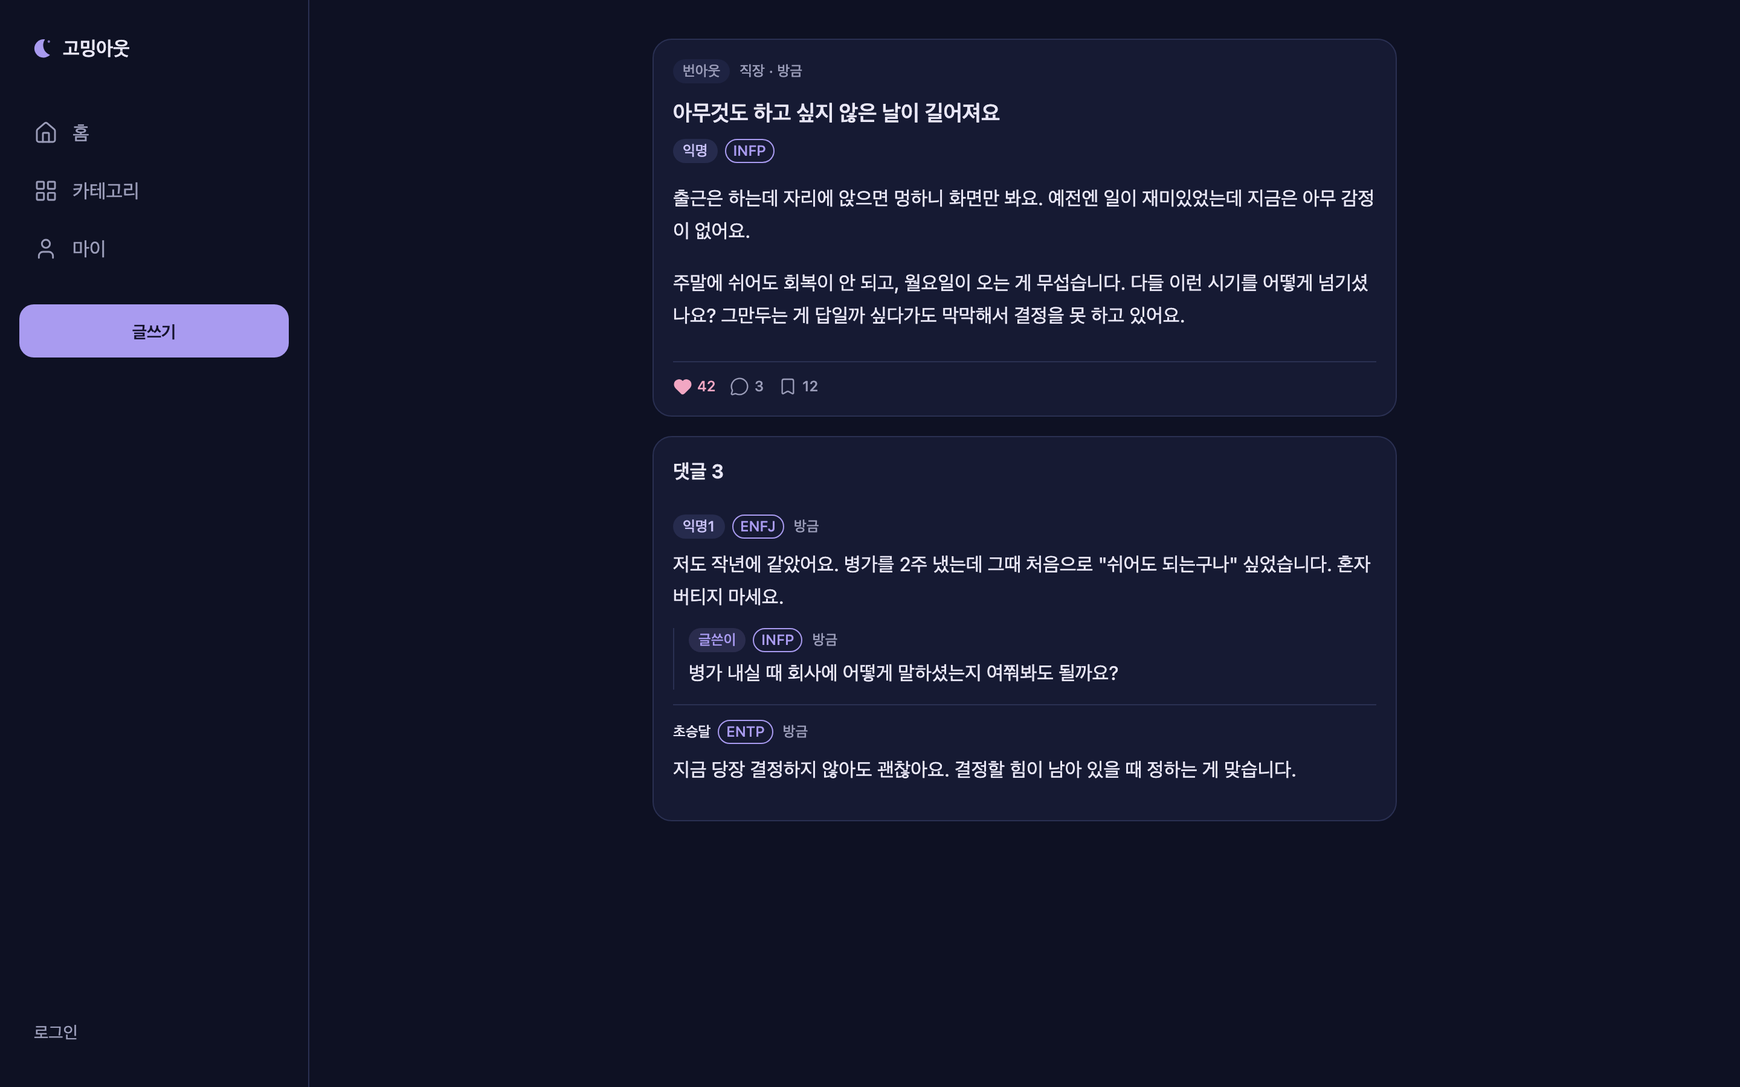
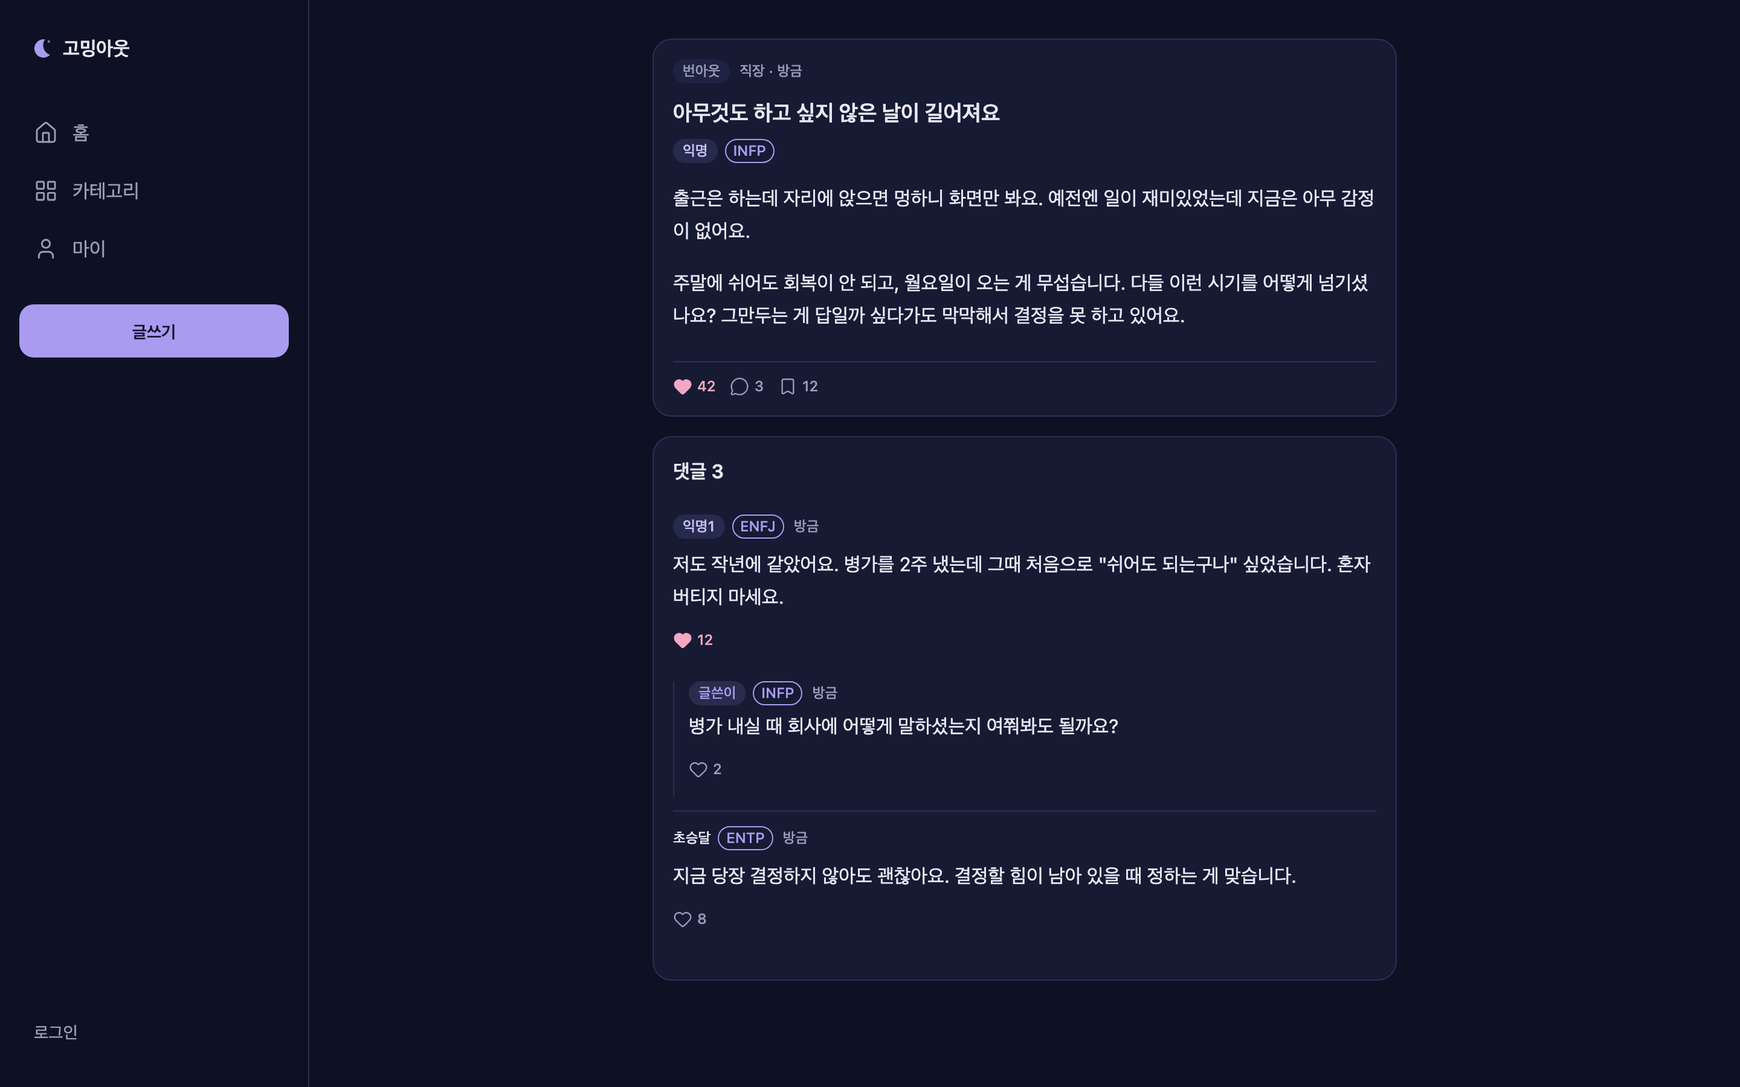
feat(schema): 댓글 공감 모델 추가, 글쓴이 라벨 규칙 확정
D22 — `글쓴이` 라벨은 글·댓글의 익명 여부와 무관하게 항상 표시한다.
대화 맥락에서 글쓴이의 답글임을 아는 편이 더 중요하다는 판단.
닉네임 글에 익명 댓글을 달면 작성자가 드러나지만 의도된 동작이며,
이 경우에도 nickname·id는 응답에 담기지 않는다. 라벨만 바뀐다.
M3에서 댓글 작성 화면에 이 점을 안내한다.

D23 — 댓글 공감을 위한 CommentLike 모델을 정의한다.
D18에서 댓글 공감이 확정됐는데 Comment.likeCount를 유지할 수단이 없었다.

SCHEMA.md
- CommentLike 모델 (복합 PK로 중복 공감 차단, @@index([commentId]))
- User.commentLikes / Comment.likes 관계
- Comment.editedAt, @@index([parentId])
- AgeRange에 TEEN_MID(14~16) — 가입 하한 D6을 담는 구간
- EmailVerification.purpose를 VerificationPurpose enum으로

API.md
- POST/DELETE /comments/:id/like
- `글쓴이` 라벨 규칙 표와 익명성 주의사항

PRD.md — 반응 항목에 댓글 공감, 4장에 글쓴이 라벨 규칙

코드
- shared에 AUTHOR_LABEL 상수와 anonymousNumberLabel/isPostAuthorLabel
  (serializer와 화면이 같은 문자열을 쓰도록 단일화)
- AuthorLabel이 문자열 직접 비교 대신 상수를 쓴다
- 상세 화면에 댓글 공감 버튼

테스트 27개 통과 (D22 케이스, 라벨 상수 3종 추가).

Changed region(s): [[0.375, 0.56, 0.75, 0.7156], [0.375, 0.7467, 0.7188, 0.8089]]

diff --git a/apps/web/src/components/post/author-label.tsx b/apps/web/src/components/post/author-label.tsx
@@ -1,4 +1,4 @@
-import type { PublicAuthor } from '@gomingout/shared';
+import { AUTHOR_LABEL, isPostAuthorLabel, type PublicAuthor } from '@gomingout/shared';
 import { MbtiBadge } from './mbti-badge';
 
 /**
@@ -9,20 +9,24 @@ import { MbtiBadge } from './mbti-badge';
  * - 익명 글·댓글에 표시할 수 있는 프로필 정보는 MBTI 스냅샷뿐이다.
  * - 닉네임 작성자의 MBTI는 mbtiPublic=true일 때만 서버가 채워 보낸다(절대규칙 4).
  * - 탈퇴한 사용자는 닉네임을 노출하지 않고 "탈퇴한 사용자"로만 표시한다(D18).
+ *
+ * `글쓴이` 라벨은 글·댓글의 익명 여부와 무관하게 붙는다(D22).
+ * 닉네임 글에 익명 댓글을 달면 작성자가 드러나지만 의도된 동작이며,
+ * 이 경우에도 응답에 nickname·id는 담기지 않는다 — 라벨만 바뀐다.
  */
 export function AuthorLabel({ author }: { author: PublicAuthor }) {
   if (author.type === 'deleted') {
-    return <span className="text-caption text-text-subtle">탈퇴한 사용자</span>;
+    return <span className="text-caption text-text-subtle">{AUTHOR_LABEL.deleted}</span>;
   }
 
   if (author.type === 'anonymous') {
     // 글쓴이 배지는 강조색, 일반 익명 배지는 익명 전용 색 (DESIGN.md 7장)
-    const isPostAuthor = author.label === '글쓴이';
+    const isAuthor = isPostAuthorLabel(author.label);
     return (
       <span className="flex items-center gap-1.5">
         <span
           className={
-            isPostAuthor
+            isAuthor
               ? 'rounded-pill bg-primary-soft px-2 py-0.5 text-caption text-primary'
               : 'rounded-pill bg-anon-bg px-2 py-0.5 text-caption text-anon-text'
           }

diff --git a/apps/web/src/app/posts/[id]/page.tsx b/apps/web/src/app/posts/[id]/page.tsx
@@ -3,6 +3,7 @@ import { CareBox } from '@/components/common/care-box';
 import { Card } from '@/components/common/card';
 import { AuthorLabel } from '@/components/post/author-label';
 import { CategoryChip } from '@/components/post/category-chip';
+import { CommentLikeButton } from '@/components/post/comment-like-button';
 import { CountRow } from '@/components/post/count-row';
 import { formatRelativeKst } from '@/lib/format-time';
 import { MOCK_COMMENTS, MOCK_POSTS } from '@/lib/mock/fixtures';
@@ -72,6 +73,10 @@ export default async function PostDetailPage({ params }: { params: Promise<{ id:
                   </span>
                 </div>
                 <p className="mt-2 text-body text-text">{comment.content}</p>
+                <CommentLikeButton
+                  likeCount={comment.likeCount}
+                  liked={comment.viewer?.liked ?? false}
+                />
 
                 {/* 대댓글은 1단계까지 (D18) */}
                 {replies.length > 0 && (
@@ -85,6 +90,10 @@ export default async function PostDetailPage({ params }: { params: Promise<{ id:
                           </span>
                         </div>
                         <p className="mt-1 text-body text-text">{reply.content}</p>
+                        <CommentLikeButton
+                          likeCount={reply.likeCount}
+                          liked={reply.viewer?.liked ?? false}
+                        />
                       </li>
                     ))}
                   </ul>

diff --git a/packages/shared/src/constants/author-label.ts b/packages/shared/src/constants/author-label.ts
@@ -1,0 +1,28 @@
+/**
+ * 작성자 라벨 (PRD 4장, D22).
+ *
+ * 왜 상수인가:
+ * 서버의 serializer(toPublicComment)가 만드는 문자열과 화면이 분기하는 문자열이
+ * 반드시 같아야 한다. 한쪽만 바뀌면 "글쓴이" 배지가 조용히 일반 익명 배지로 보인다.
+ */
+export const AUTHOR_LABEL = {
+  /** 게시글의 익명 작성자, 또는 번호가 필요 없는 익명 */
+  anonymous: '익명',
+  /** 게시글 작성자가 단 댓글. 글·댓글의 익명 여부와 무관하게 붙인다 (D22) */
+  postAuthor: '글쓴이',
+  /** 탈퇴한 사용자 (D18) */
+  deleted: '탈퇴한 사용자',
+} as const;
+
+/**
+ * 한 게시글 안에서만 유효한 익명 번호 라벨.
+ * 번호는 AnonymousAlias가 게시글 단위로 고정한다. 다른 글에서는 같은 사람이 다른 번호를 받는다.
+ */
+export function anonymousNumberLabel(sequence: number): string {
+  return `${AUTHOR_LABEL.anonymous}${String(sequence)}`;
+}
+
+/** 글쓴이 여부 판별. 라벨 문자열을 직접 비교하지 않기 위해 둔다. */
+export function isPostAuthorLabel(label: string): boolean {
+  return label === AUTHOR_LABEL.postAuthor;
+}

diff --git a/apps/web/src/components/post/author-label.test.tsx b/apps/web/src/components/post/author-label.test.tsx
@@ -1,4 +1,4 @@
-import type { PublicAuthor } from '@gomingout/shared';
+import { AUTHOR_LABEL, type PublicAuthor } from '@gomingout/shared';
 import { render, screen } from '@testing-library/react';
 import { describe, expect, it } from 'vitest';
 import { AuthorLabel } from './author-label';
@@ -30,6 +30,15 @@ describe('AuthorLabel — 익명 표시', () => {
     render(<AuthorLabel author={author} />);
 
     expect(screen.getByText('글쓴이')).toBeInTheDocument();
+  });
+
+  it('닉네임 글에 단 글쓴이의 익명 댓글도 "글쓴이"로 표시된다 (D22)', () => {
+    // 글이 닉네임이어도 라벨만 글쓴이로 바뀔 뿐 nickname·id는 응답에 없다
+    const author: PublicAuthor = { type: 'anonymous', label: AUTHOR_LABEL.postAuthor, mbti: null };
+    const { container } = render(<AuthorLabel author={author} />);
+
+    expect(container.textContent).toBe('글쓴이');
+    expect(author).not.toHaveProperty('nickname');
   });
 
   it('탈퇴한 사용자는 닉네임을 노출하지 않는다', () => {

diff --git a/packages/shared/src/constants/author-label.test.ts b/packages/shared/src/constants/author-label.test.ts
@@ -1,0 +1,21 @@
+import { describe, expect, it } from 'vitest';
+import { AUTHOR_LABEL, anonymousNumberLabel, isPostAuthorLabel } from './author-label.js';
+
+describe('작성자 라벨', () => {
+  it('익명 번호 라벨을 만든다', () => {
+    expect(anonymousNumberLabel(1)).toBe('익명1');
+    expect(anonymousNumberLabel(12)).toBe('익명12');
+  });
+
+  it('글쓴이 라벨을 판별한다', () => {
+    expect(isPostAuthorLabel(AUTHOR_LABEL.postAuthor)).toBe(true);
+    expect(isPostAuthorLabel('익명1')).toBe(false);
+    expect(isPostAuthorLabel(AUTHOR_LABEL.anonymous)).toBe(false);
+  });
+
+  it('익명 번호 라벨은 글쓴이로 오인되지 않는다', () => {
+    for (let index = 1; index <= 20; index += 1) {
+      expect(isPostAuthorLabel(anonymousNumberLabel(index))).toBe(false);
+    }
+  });
+});

diff --git a/apps/web/src/components/post/comment-like-button.tsx b/apps/web/src/components/post/comment-like-button.tsx
@@ -1,0 +1,22 @@
+import { Heart } from 'lucide-react';
+
+/**
+ * 댓글 공감 (D18, D23).
+ * 활성 시 --like로 채운다. 게시글 공감과 같은 규칙이다 (DESIGN.md 7장).
+ * 실제 토글은 M4에서 붙인다.
+ */
+export function CommentLikeButton({ likeCount, liked }: { likeCount: number; liked: boolean }) {
+  return (
+    <button
+      type="button"
+      aria-label={liked ? '공감 취소' : '공감'}
+      aria-pressed={liked}
+      className={`flex min-h-11 items-center gap-1 text-caption transition-colors duration-150 ${
+        liked ? 'text-like' : 'text-text-muted hover:text-text'
+      }`}
+    >
+      <Heart size={16} strokeWidth={1.75} fill={liked ? 'currentColor' : 'none'} aria-hidden />
+      {likeCount}
+    </button>
+  );
+}

diff --git a/packages/shared/src/index.ts b/packages/shared/src/index.ts
@@ -12,6 +12,7 @@ export * from './constants/crisis-keywords.js';
 export * from './constants/profile-enums.js';
 export * from './constants/limits.js';
 export * from './constants/brand.js';
+export * from './constants/author-label.js';
 
 // 타입
 export * from './types/api.js';

diff --git a/docs/progress/M0.md b/docs/progress/M0.md
@@ -51,13 +51,13 @@ shadcn 변수에 연결하고 Pretendard를 self-host했다.
 ## 테스트
 
 - 실행 명령: `pnpm verify` (format:check → lint → typecheck → test)
-- 결과: **23개 전부 통과**, lint 0 error, 타입 에러 0
+- 결과: **27개 전부 통과**, lint 0 error, 타입 에러 0
 
 | 패키지 | 개수 | 주요 항목 |
 |---|---|---|
-| shared | 11 | MBTI 16종·중복 없음, 카테고리 slug 전역 유일, 위기 키워드 오탐/감지/공백 우회 |
+| shared | 14 | MBTI 16종·중복 없음, 카테고리 slug 전역 유일, 위기 키워드 오탐/감지/공백 우회, 작성자 라벨 |
 | api | 4 | health 응답 형식·UTC, **`Cache-Control: private, no-store`**, `x-powered-by` 미노출, 404 에러 형식 |
-| web | 8 | AppShell 렌더, **AuthorLabel 익명성 6종** |
+| web | 9 | AppShell 렌더, **AuthorLabel 익명성 7종**(D22 케이스 포함) |
 
 익명성 검사(절대규칙 7): 익명 작성자에 라벨·MBTI 외 노출 없음, MBTI 끈 경우 라벨만,
 `mbtiPublic=false` 닉네임에 배지 없음, 탈퇴 사용자 닉네임 미노출,
@@ -99,18 +99,24 @@ curl -D - localhost:3000/api/health | grep cache-control → private, no-store
   지금 정의만 되어 있고 모델이 없어 생성되지 않는다
 - 카테고리 시드 투입
 
-### 스키마 문서와 어긋난 채 남아 있는 것 (해당 모델 만들 때 함께 수정)
-- `SCHEMA.md`에 **`CommentLike` 모델이 없다**. D18에서 댓글 공감이 확정됐는데
-  `Comment.likeCount`를 유지할 수단이 없다. `API.md`에도 `POST/DELETE /comments/:id/like`가 없다 → M3·M4
-- 탈퇴 시 `User.nickname`(non-null `@unique`) 처리 방식 미정 → M6
-- `AgeRange`에 `TEEN_MID`(14~16세)를 shared에는 추가했지만 `SCHEMA.md`는 아직 `TEEN_LATE`부터다 → M1
-- `EmailVerification.purpose`가 `String`(다른 곳은 enum) → M1
-- `Comment`에 `editedAt`이 없다 → M3
+### 보고 이후 해소한 것 (같은 마일스톤에서 처리)
 
-### ⚠ M3 전에 반드시 정할 것
-글쓴이가 **닉네임으로 글을 쓰고 익명으로 댓글**을 달 때 `글쓴이` 배지를 붙이면 그 익명 댓글의 신원이
-글 작성자로 특정된다. 역방향도 같다. 절대규칙 1과 직접 충돌한다.
-제안: **글과 댓글의 익명 여부가 같을 때만 `글쓴이` 배지를 표시한다.**
+사용자 결정에 따라 M0 안에서 문서·코드를 함께 정리했다.
+
+- **D22 `글쓴이` 라벨 확정** — 글·댓글의 익명 여부와 무관하게 항상 `글쓴이`로 표시한다.
+  닉네임 글 + 익명 댓글이면 작성자가 드러나지만 의도된 동작이며, 이 경우에도 `nickname`·`id`는
+  응답에 담기지 않는다. 라벨 문자열은 `AUTHOR_LABEL` 상수로 단일화해 serializer(M3)와 화면이
+  어긋나지 않게 했다. PRD 4장·API.md·ARCHITECTURE.md 반영.
+- **D23 `CommentLike` 모델 추가** — `SCHEMA.md`에 `CommentLike`(복합 PK로 중복 공감 차단),
+  `User.commentLikes`·`Comment.likes` 관계를 넣고 `API.md`에 `POST/DELETE /comments/:id/like`를 정의했다.
+  상세 화면에도 댓글 공감 버튼을 붙였다.
+- `Comment.editedAt` 추가, `@([parentId])` 추가
+- `AgeRange`에 `TEEN_MID`(14~16세) 추가 — 가입 하한(D6)을 담는 구간
+- `EmailVerification.purpose`를 `VerificationPurpose` enum으로 변경
+- PRD 3장 반응 항목에 댓글 공감 반영
+
+### 아직 남은 문서-코드 불일치
+- 탈퇴 시 `User.nickname`(non-null `@unique`) 처리 방식 미정 → M6
 
 ### 기타
 - `apps/web/src/lib/mock/`은 M0 전용이다. 실제 API가 붙는 M2·M4에서 삭제한다.

diff --git a/docs/SCHEMA.md b/docs/SCHEMA.md
@@ -1,6 +1,8 @@
 # DB 스키마 초안 (Prisma)
 
-> 초안이다. 미결 사항(대댓글, 댓글 공감 등) 확정 후 조정.
+> 대댓글 1단계·댓글 공감은 D18·D23으로 확정되어 반영했다.
+> 모델은 마일스톤 순서대로 `apps/api/prisma/schema.prisma`에 옮겨 마이그레이션으로 만든다.
+> 구현이 이 문서와 달라지면 같은 커밋에서 문서를 고친다.
 
 ```prisma
 enum Role { USER ADMIN }
@@ -9,7 +11,8 @@ enum ContentStatus { ACTIVE BLINDED DELETED }
 enum ReportTarget { POST COMMENT }
 enum ReportReason { ABUSE SPAM SEXUAL PRIVACY SELF_HARM OTHER }
 enum ReportStatus { PENDING RESOLVED_KEPT RESOLVED_REMOVED DISMISSED }
-enum AgeRange { TEEN_LATE TWENTIES_EARLY TWENTIES_LATE THIRTIES FORTIES_PLUS }
+enum VerificationPurpose { SIGNUP PASSWORD_RESET }
+enum AgeRange { TEEN_MID TEEN_LATE TWENTIES_EARLY TWENTIES_LATE THIRTIES FORTIES_PLUS } // TEEN_MID(14~16)는 가입 하한(D6)을 담는 구간
 enum Gender { MALE FEMALE OTHER }
 enum Occupation { STUDENT JOB_SEEKER EMPLOYEE SELF_EMPLOYED OTHER }
 
@@ -38,12 +41,13 @@ model User {
   bio                String?  @db.VarChar(100)
   bioPublic          Boolean  @default(false)
 
-  posts     Post[]
-  comments  Comment[]
-  likes     PostLike[]
-  scraps    Scrap[]
-  reports   Report[]   @relation("Reporter")
-  sessions  Session[]
+  posts        Post[]
+  comments     Comment[]
+  likes        PostLike[]
+  commentLikes CommentLike[]
+  scraps       Scrap[]
+  reports      Report[]   @relation("Reporter")
+  sessions     Session[]
 }
 
 model Category {
@@ -94,7 +98,7 @@ model Comment {
   post         Post          @relation(fields: [postId], references: [id])
   authorId     String
   author       User          @relation(fields: [authorId], references: [id])
-  parentId     String?                            // 대댓글(1단계), 미결 확정 후 유지/삭제
+  parentId     String?                            // 대댓글 1단계 (D18). 대댓글에는 다시 답글을 달 수 없다
   parent       Comment?      @relation("Replies", fields: [parentId], references: [id])
   replies      Comment[]     @relation("Replies")
   content      String        @db.VarChar(1000)
@@ -107,9 +111,13 @@ model Comment {
   status       ContentStatus @default(ACTIVE)
   createdAt    DateTime      @default(now())
   updatedAt    DateTime      @updatedAt
+  editedAt     DateTime?                          // 수정 시에만 기록. "수정됨" 표시용
   deletedAt    DateTime?
 
+  likes        CommentLike[]
+
   @@index([postId, createdAt])
+  @@index([parentId])
 }
 
 // 게시글 내 익명 번호 고정용. 글쓴이는 number=0으로 "글쓴이" 표시
@@ -131,7 +139,16 @@ model PostLike {
   @@id([userId, postId])
 }
 
-// 댓글 공감 확정 시 CommentLike 추가
+// 댓글 공감 (D18, D23). PostLike와 같은 복합 PK 구조로 중복 공감을 DB에서 막는다.
+model CommentLike {
+  userId    String
+  commentId String
+  user      User     @relation(fields: [userId], references: [id])
+  comment   Comment  @relation(fields: [commentId], references: [id])
+  createdAt DateTime @default(now())
+  @@id([userId, commentId])
+  @@index([commentId])
+}
 
 model Scrap {
   userId    String
@@ -161,7 +178,7 @@ model Report {
 model EmailVerification {
   id        String   @id @default(cuid())
   email     String
-  purpose   String                 // SIGNUP | PASSWORD_RESET
+  purpose   VerificationPurpose
   codeHash  String
   attempts  Int      @default(0)
   expiresAt DateTime

diff --git a/docs/PRD.md b/docs/PRD.md
@@ -17,7 +17,7 @@
 | 게시글 | 작성/조회/수정/삭제, 작성 시 익명 또는 닉네임 선택, 익명 시 MBTI 표시 여부 선택(기본 표시), 텍스트만 |
 | 댓글 | 작성/수정/삭제, 게시글과 동일한 익명·MBTI 규칙, 익명 번호(익명1, 익명2…), 글쓴이 표시 |
 | 카테고리 | 대분류-소분류 2단계 |
-| 반응 | 공감(좋아요), 스크랩 |
+| 반응 | 게시글 공감(좋아요)·스크랩, 댓글 공감 |
 | 피드 | 최신순, 인기순, 홈 화면 인기글 섹션 |
 | 마이페이지 | 내가 쓴 글·댓글, 스크랩한 글 |
 | 안전 | 신고, 누적 시 자동 블라인드, 어드민 신고 처리 페이지, 위기 키워드 감지 시 상담 창구 안내 |
@@ -34,7 +34,8 @@
 ## 4. 익명성 규칙
 - 글·댓글마다 `익명` / `닉네임` 선택.
 - 익명 표시: `익명 · INFP` (MBTI 표시 선택 시) 또는 `익명`.
-- 한 게시글 안에서 같은 사람의 익명 댓글은 같은 번호(익명1, 익명2…)를 유지. 글쓴이가 익명 댓글을 달면 `글쓴이`로 표시.
+- 한 게시글 안에서 같은 사람의 익명 댓글은 같은 번호(익명1, 익명2…)를 유지.
+- 글 작성자가 단 댓글은 글·댓글의 익명 여부와 무관하게 `글쓴이`로 표시(D22). 닉네임 글에 익명 댓글을 달면 작성자가 드러나므로 작성 화면에서 안내한다.
 - 익명 글·댓글의 MBTI는 작성 시점 값을 스냅샷으로 저장(이후 MBTI 변경과 무관).
 - 프로필 페이지에는 닉네임으로 쓴 글만 노출. 익명 글은 본인의 마이페이지에서만 보임.
 - 작성 후 익명/닉네임 전환 불가.

diff --git a/docs/DECISIONS.md b/docs/DECISIONS.md
@@ -24,6 +24,8 @@
 | D19 | 로컬에서 이메일 인증은 mock 가능(`EMAIL_PROVIDER=mock`, 인증 코드를 콘솔 출력). 보고서·스크린샷용 고정 테스트 계정을 시드로 만든다 | 배포 단계가 아니라 기능 완성이 목적이므로 실제 메일 발송이 경로에 끼어들 필요가 없다 |
 | D20 | 카테고리 대분류 "몸"을 "외모"로 바꾸고 소분류를 다이어트·피부·헤어·건강으로 정리 | "몸"이라는 분류명이 부담스럽다는 판단 |
 | D21 | M0 UI는 실제 API 대신 `PublicPost`·`PublicComment` 타입으로 타이핑한 mock 픽스처로 구성한다 | 스키마(M1~M3)를 앞당기지 않고 화면 구성을 먼저 확인하기 위해. 타입이 같으므로 실제 API로 바꿀 때 화면 코드를 고칠 필요가 없다 |
+| D22 | **`글쓴이` 배지는 글의 익명 여부와 무관하게 항상 표시한다.** 닉네임 글 + 익명 댓글이어도 `글쓴이`로 표시 | 대화 맥락상 글쓴이의 답글임을 아는 것이 더 중요하다는 판단. 단, 닉네임 글에 익명 댓글을 달면 그 댓글의 작성자가 글쓴이임이 드러난다는 점을 글쓰기·댓글 화면에서 안내한다 |
+| D23 | 댓글 공감을 위해 `CommentLike` 모델을 스키마에 추가하고 `POST/DELETE /comments/:id/like` API를 정의한다 | D18에서 댓글 공감이 확정됐으나 `Comment.likeCount`를 유지할 수단이 없었다 |
 
 ## 기술 세부 (제안 기본값, 이의 없으면 확정)
 | ID | 내용 |

diff --git a/docs/API.md b/docs/API.md
@@ -50,8 +50,9 @@
 |---|---|---|
 | GET | /posts/:id/comments | 댓글 목록 |
 | POST | /posts/:id/comments 🔒 | 작성 (parentId 선택) |
-| PATCH | /comments/:id 🔒 | 수정 |
-| DELETE | /comments/:id 🔒 | 삭제 |
+| PATCH | /comments/:id 🔒 | 수정 (본문만. 익명 여부는 변경 불가) |
+| DELETE | /comments/:id 🔒 | 삭제 (soft delete) |
+| POST / DELETE | /comments/:id/like 🔒 | 댓글 공감 / 취소 (D18, D23) |
 
 ## Reports
 | Method | Path | 설명 |
@@ -107,3 +108,18 @@ type CursorPage<T> = { items: T[]; nextCursor: string | null };
 - 응답 헤더는 전역으로 `Cache-Control: private, no-store`다.
   `viewer` 필드가 캐시를 통해 다른 사용자에게 새면 익명 글의 작성자가 특정될 수 있다.
 - 어드민 신고 처리 API만 예외적으로 작성자를 다룬다(PRD 4장).
+
+### `글쓴이` 라벨 규칙 (D22)
+
+게시글 작성자가 단 댓글은 **글의 익명 여부와 무관하게** `author.label = "글쓴이"`로 내려간다.
+
+```
+익명 글  + 익명 댓글   → "글쓴이"
+익명 글  + 닉네임 댓글 → "글쓴이"  (닉네임은 내려가지 않는다)
+닉네임 글 + 익명 댓글   → "글쓴이"
+닉네임 글 + 닉네임 댓글 → "글쓴이"
+```
+
+닉네임 글에 익명 댓글을 달면 그 댓글의 작성자가 글쓴이임이 드러난다.
+의도된 동작이므로(D22) 댓글 작성 화면에서 이 점을 안내한다.
+`글쓴이`일 때도 `nickname`·`id`는 응답에 포함하지 않는다.
